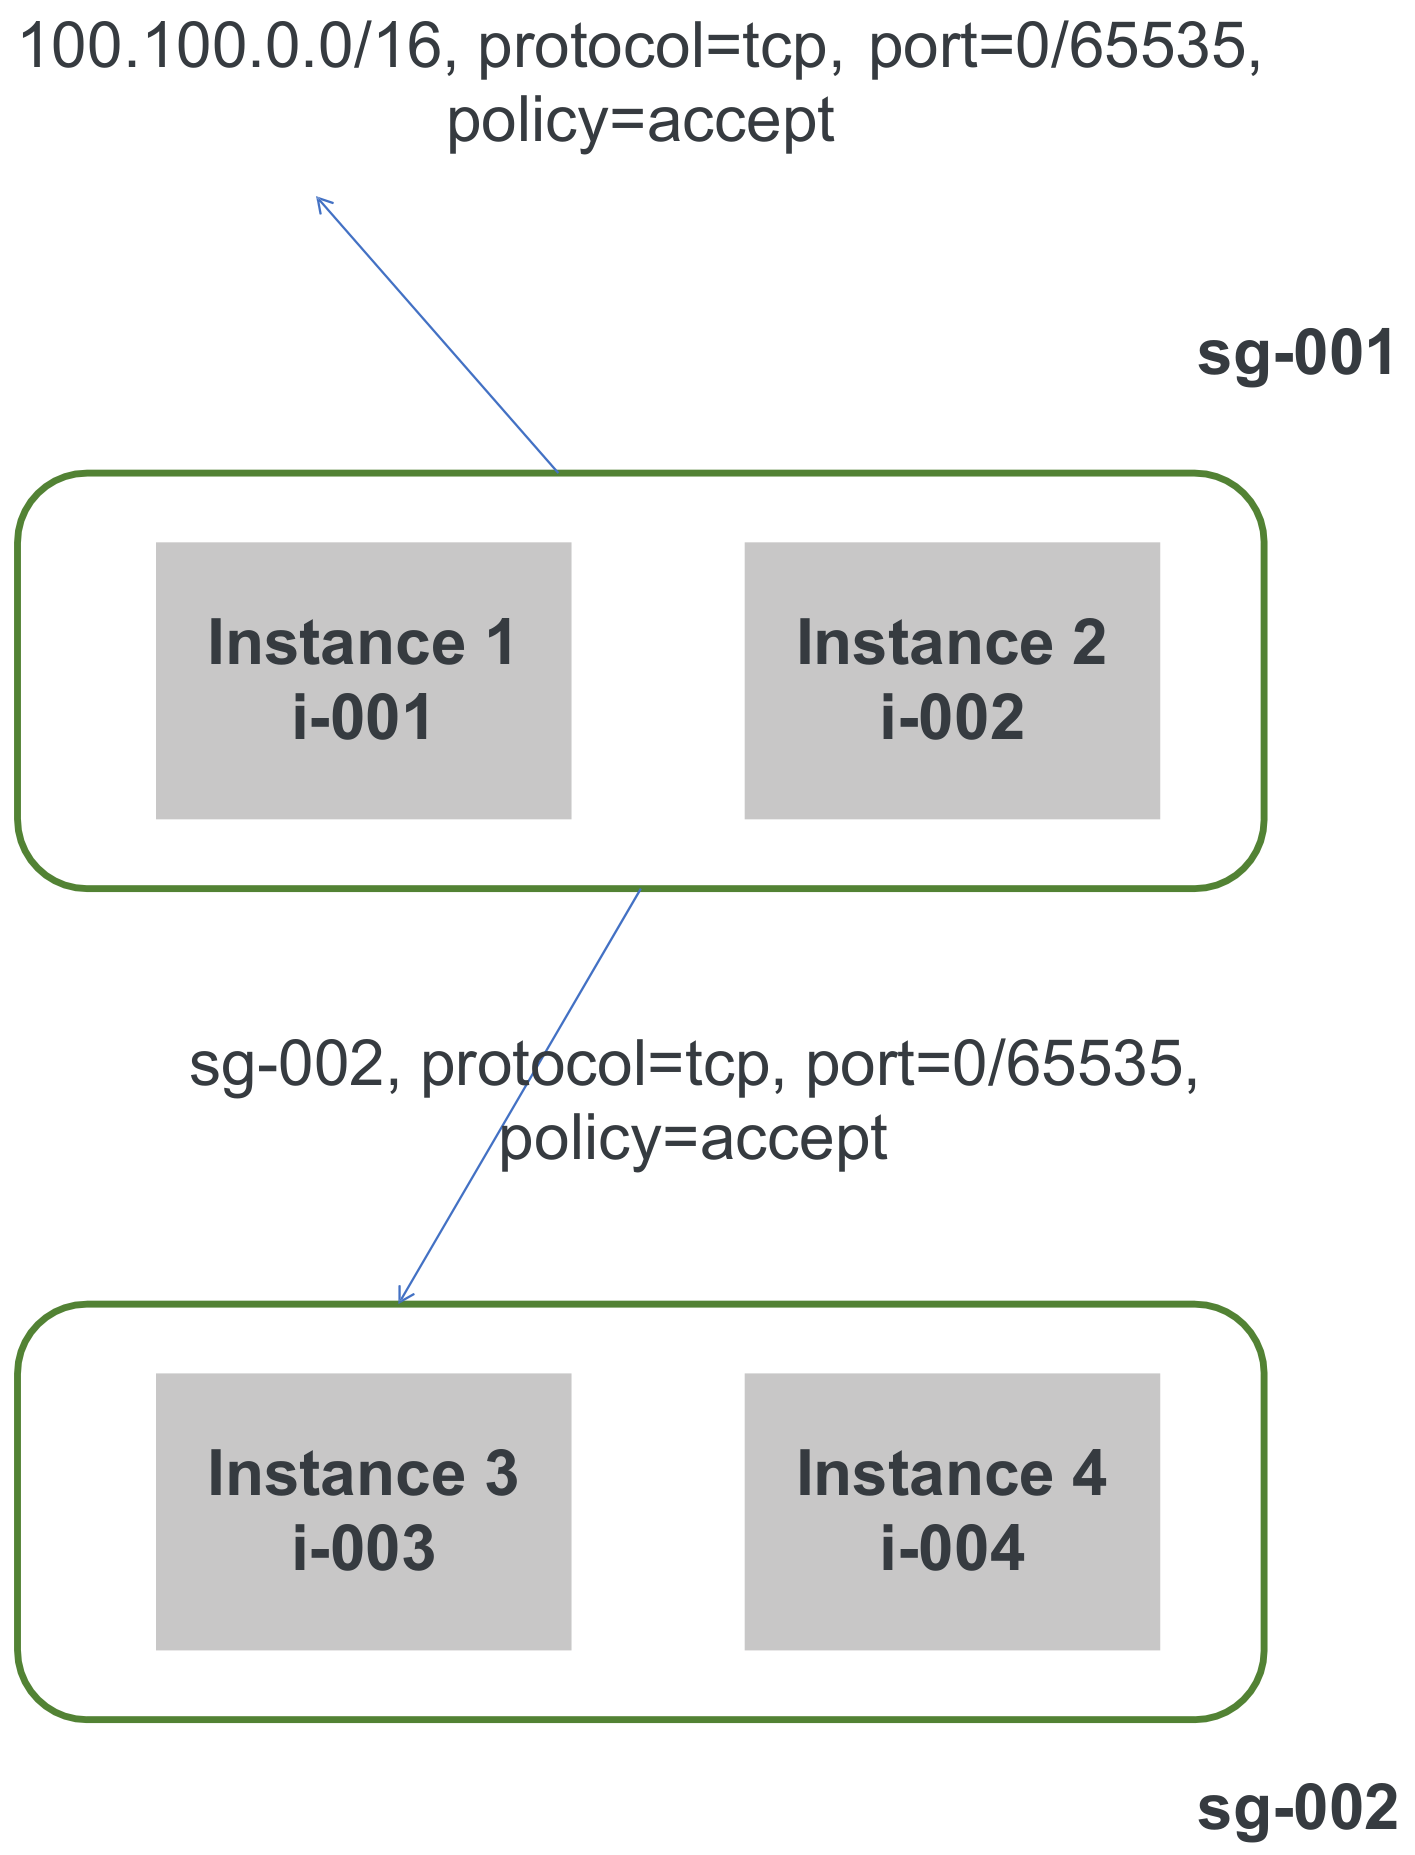
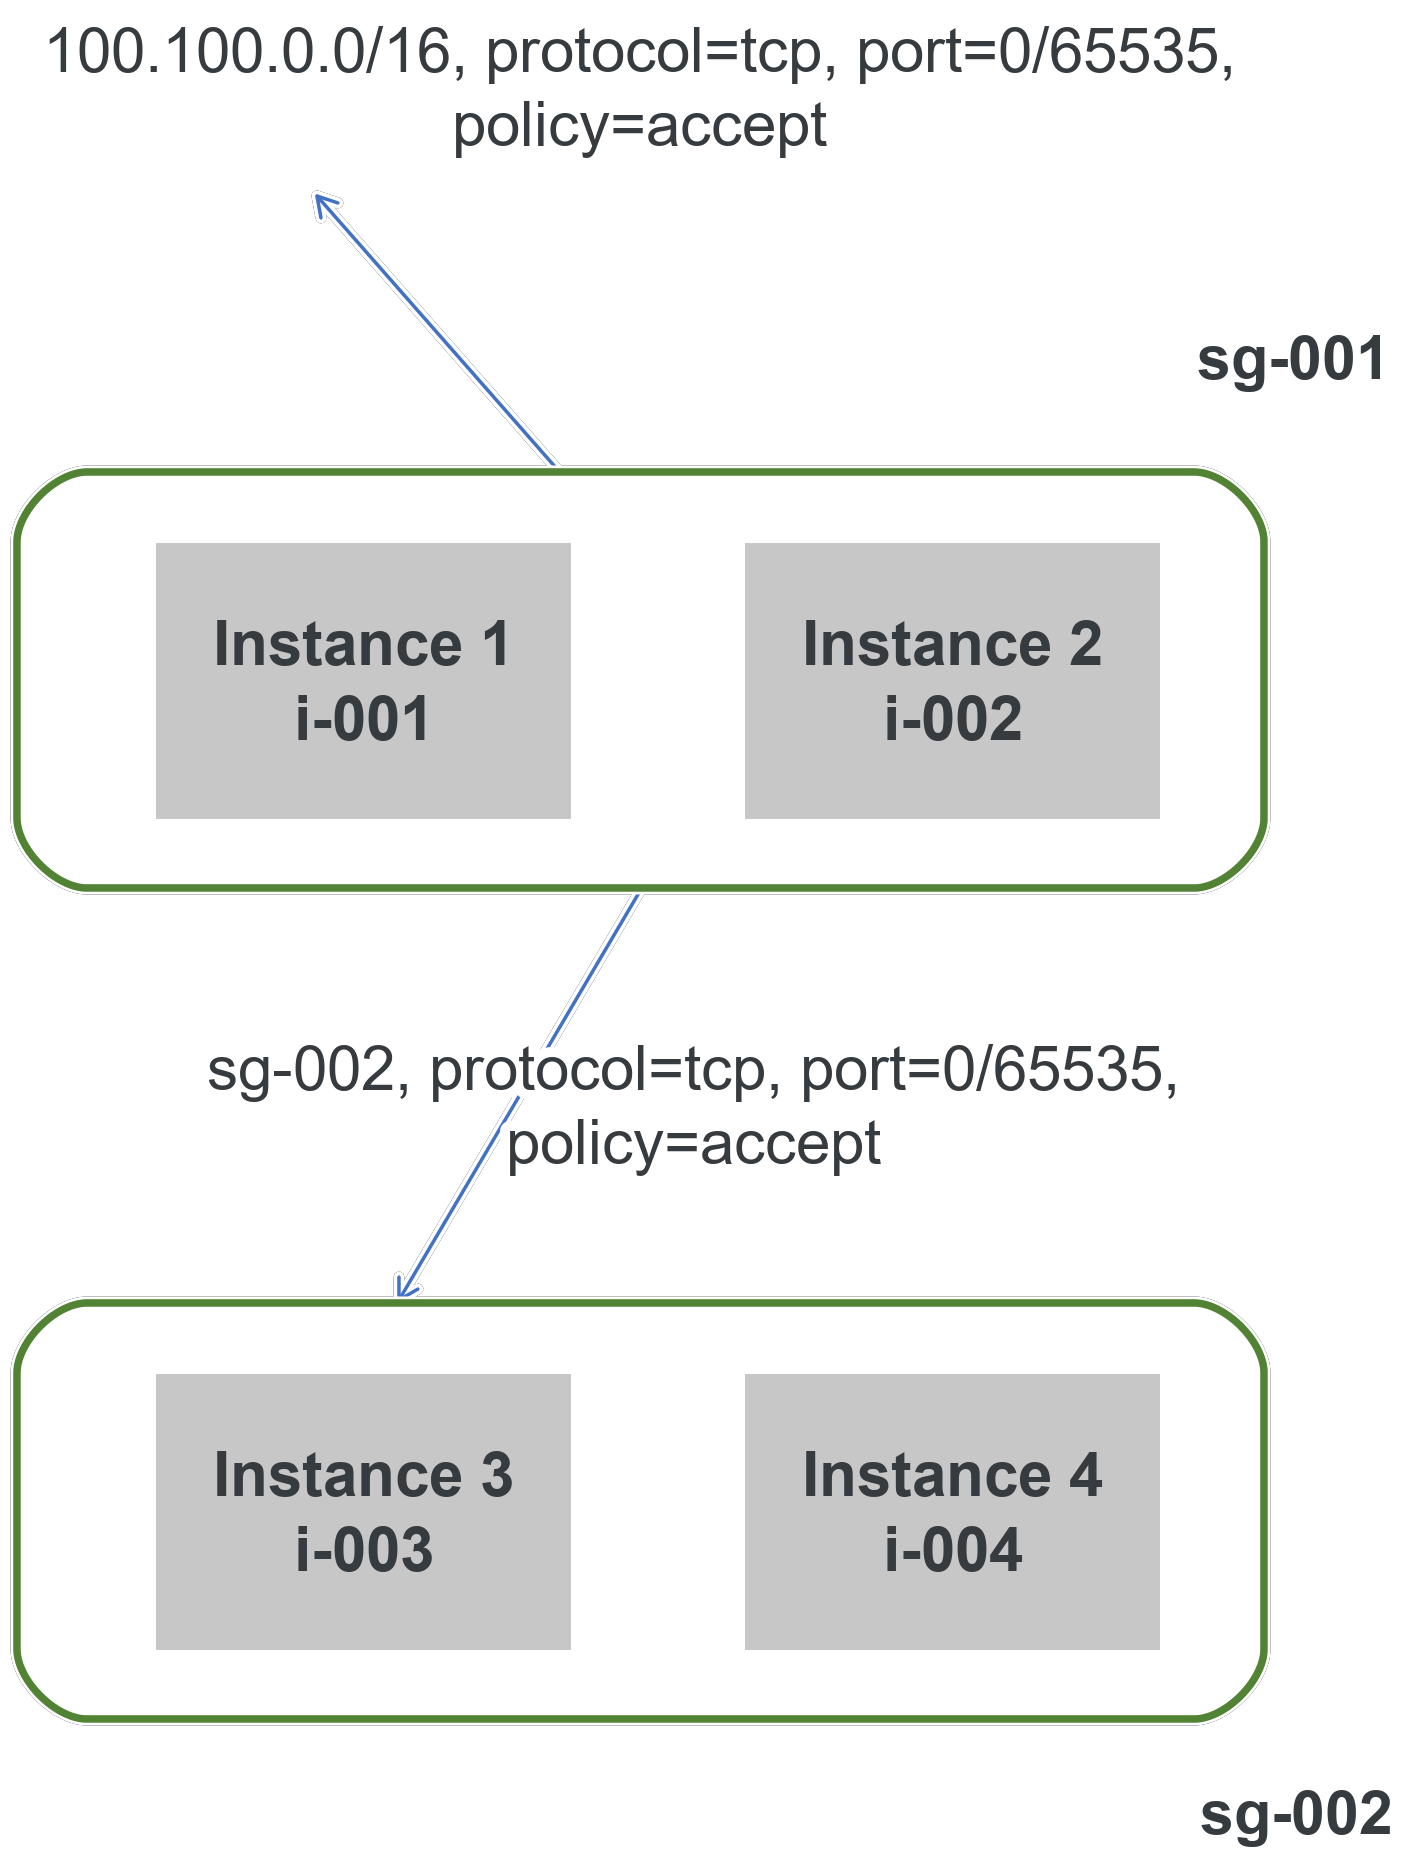
Compact VPC Slide 32 diagram and update ECS GPU, EIP, and Security Group images

diff --git a/course/module-03-vpc.html b/course/module-03-vpc.html
@@ -955,7 +955,7 @@
       <div class="slide-category">Section 6: Advanced Features</div>
       <h2>Traffic Mirroring</h2>
       
-      <div class="grid-2" style="grid-template-columns: 1fr 1.35fr; gap: 1.25rem; align-items: stretch;">
+      <div class="grid-2" style="grid-template-columns: 0.92fr 1.48fr; gap: 1.15rem; align-items: stretch;">
         <div class="content-card highlight">
           
           <p>Duplicates real-time network packets from virtual interfaces without disrupting active production services:</p>
@@ -966,8 +966,8 @@
             <li><strong>Forensics & Compliance:</strong> Essential for PCI-DSS compliance, forensic malware behavioral analysis, network protocol troubleshooting, and zero-impact auditing.</li>
           </ul>
         </div>
-        <div class="diagram-container clean" style="margin-top: 0; justify-content: center; height: 100%; padding: 0.75rem;">
-          <img src="assets/images/traffic-mirroring-architecture.svg" alt="Traffic Mirroring Architecture and Cloned Packet Flow" class="diagram-image" style="max-height: 380px; width: 100%; object-fit: contain;">
+        <div class="diagram-container clean" style="margin-top: 0; justify-content: center; height: 100%; padding: 0.5rem;">
+          <img src="assets/images/traffic-mirroring-architecture.svg" alt="Traffic Mirroring Architecture and Cloned Packet Flow" class="diagram-image" style="max-height: 430px; width: 100%; object-fit: contain;">
           <div class="diagram-caption">Traffic Mirroring: Hypervisor-Level Packet Duplication to Inspection Appliances and CLB Targets</div>
         </div>
       </div>
